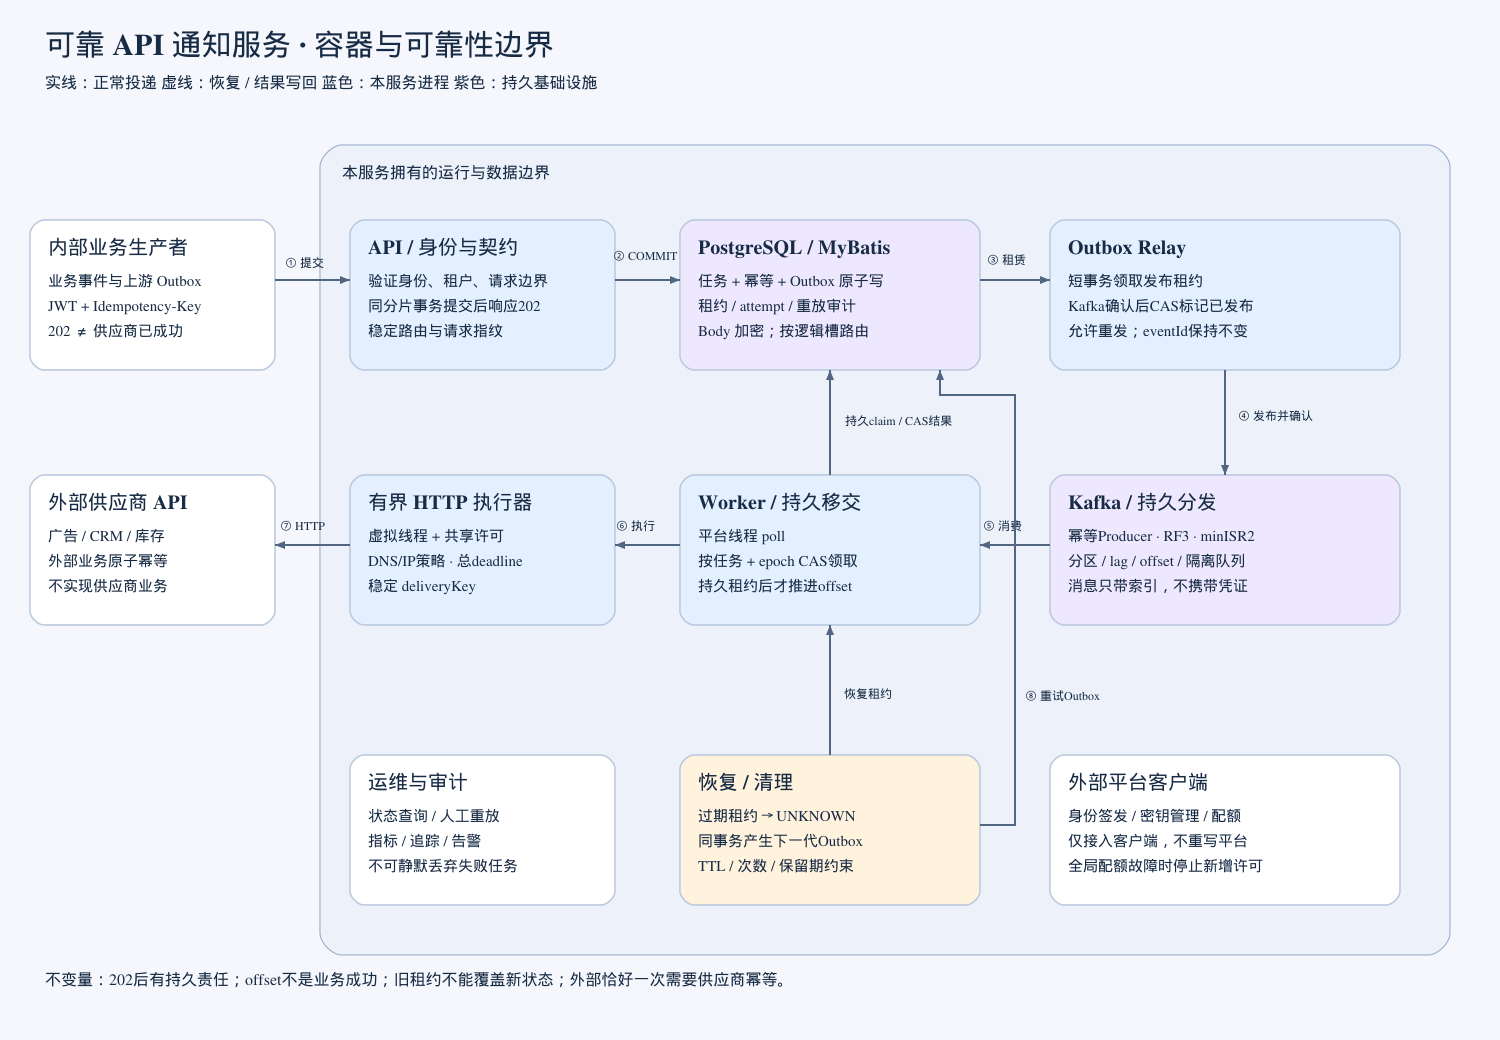
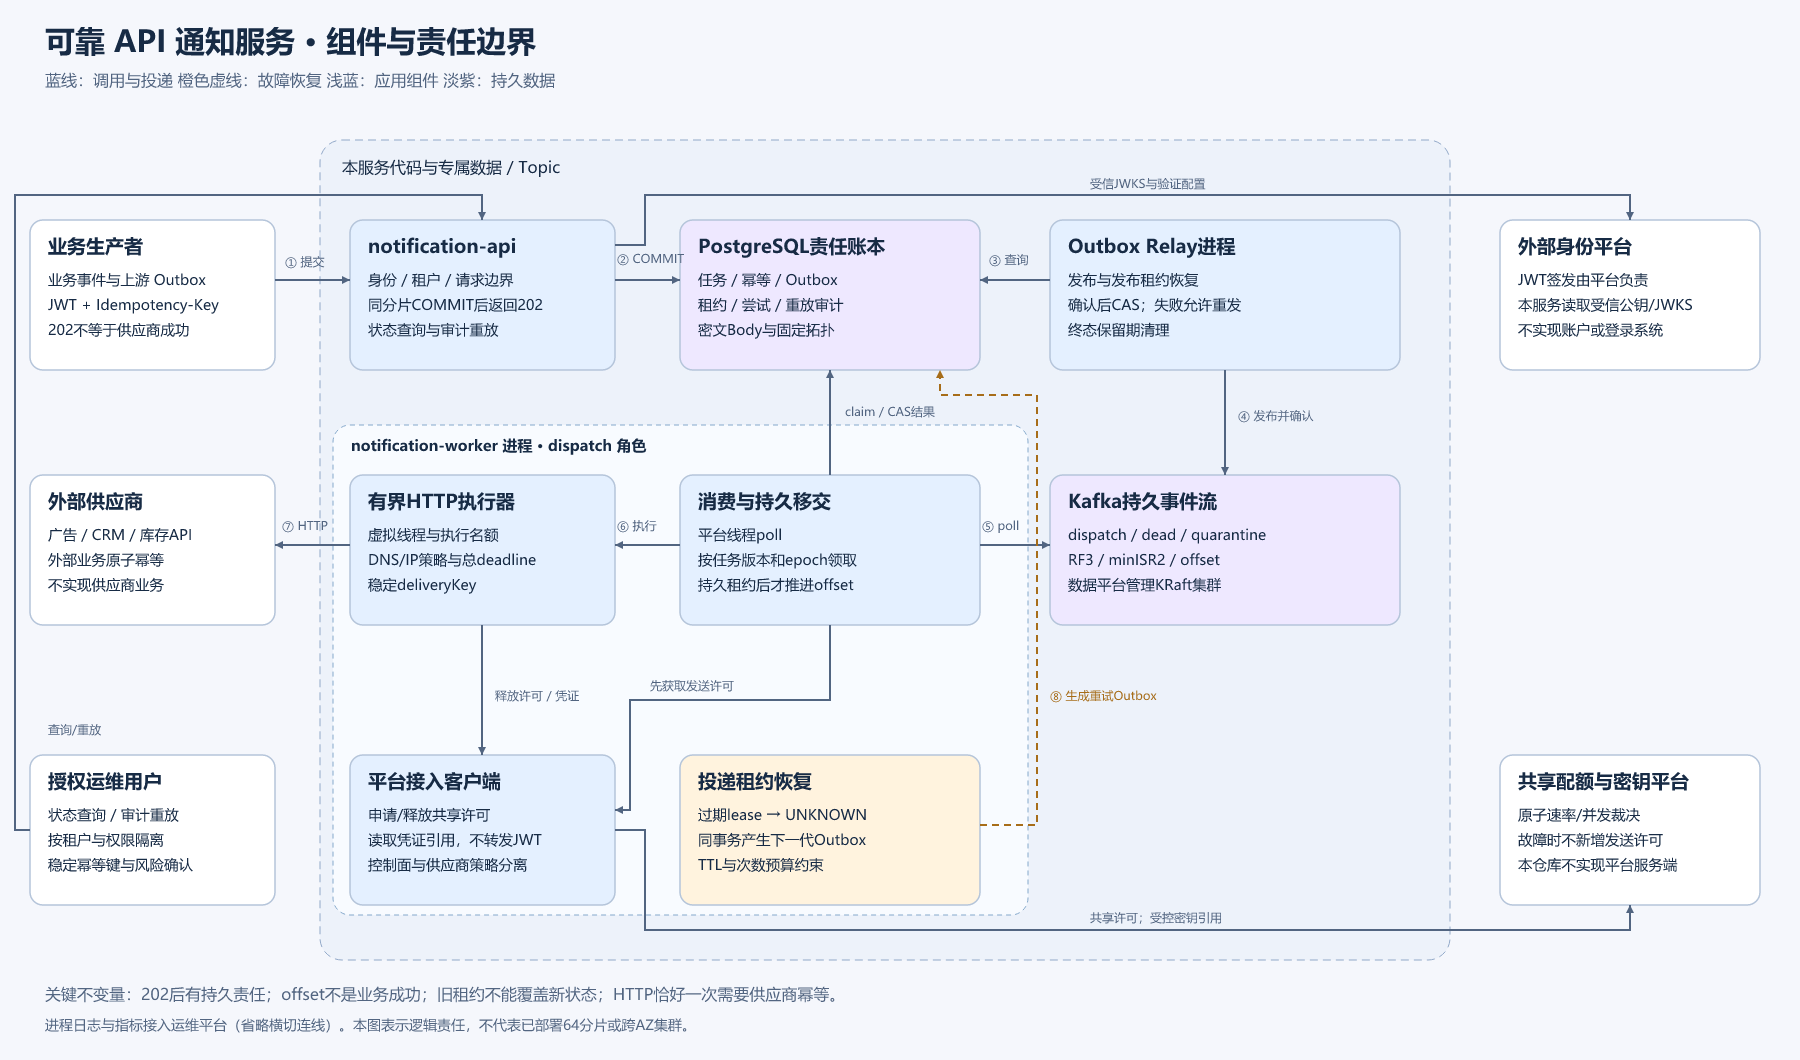
docs: reconcile reviewed architecture with the implemented service
The diagram now distinguishes process boundaries, external platforms, RPC direction and recovery. Capacity and operational assumptions remain explicitly unverified.

diff --git a/docs/architecture.md b/docs/architecture.md
@@ -28,7 +28,7 @@ flowchart LR
 
 ![容器与可靠性边界](diagrams/architecture.png)
 
-[SVG可缩放版本](diagrams/architecture.svg)。蓝色框是应用运行角色，紫色框是持久基础设施，虚线表示恢复和写回。数据库提交、Kafka确认、offset提交和供应商响应是四种不同的事实。
+[SVG可缩放版本](diagrams/architecture.svg)。浅蓝框是应用组件，虚线子框标明Worker进程边界；紫色框是持久数据，橙色虚线表示故障恢复，蓝线表示调用与投递。数据库提交、Kafka确认、offset提交和供应商响应是四种不同的事实。
 
 | 提交点 | 谁拥有后续责任 | 进程此刻退出时 |
 | --- | --- | --- |
